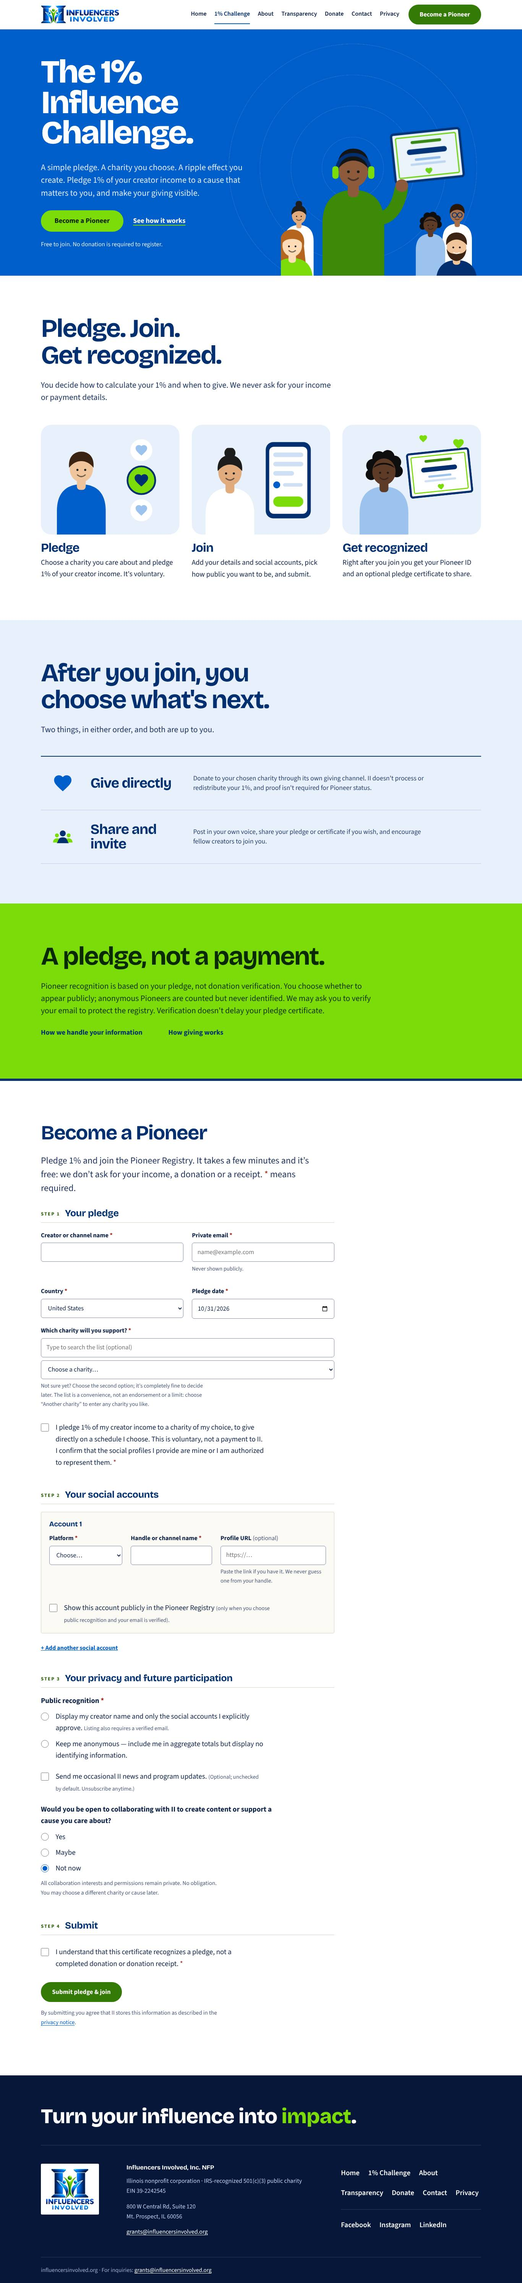
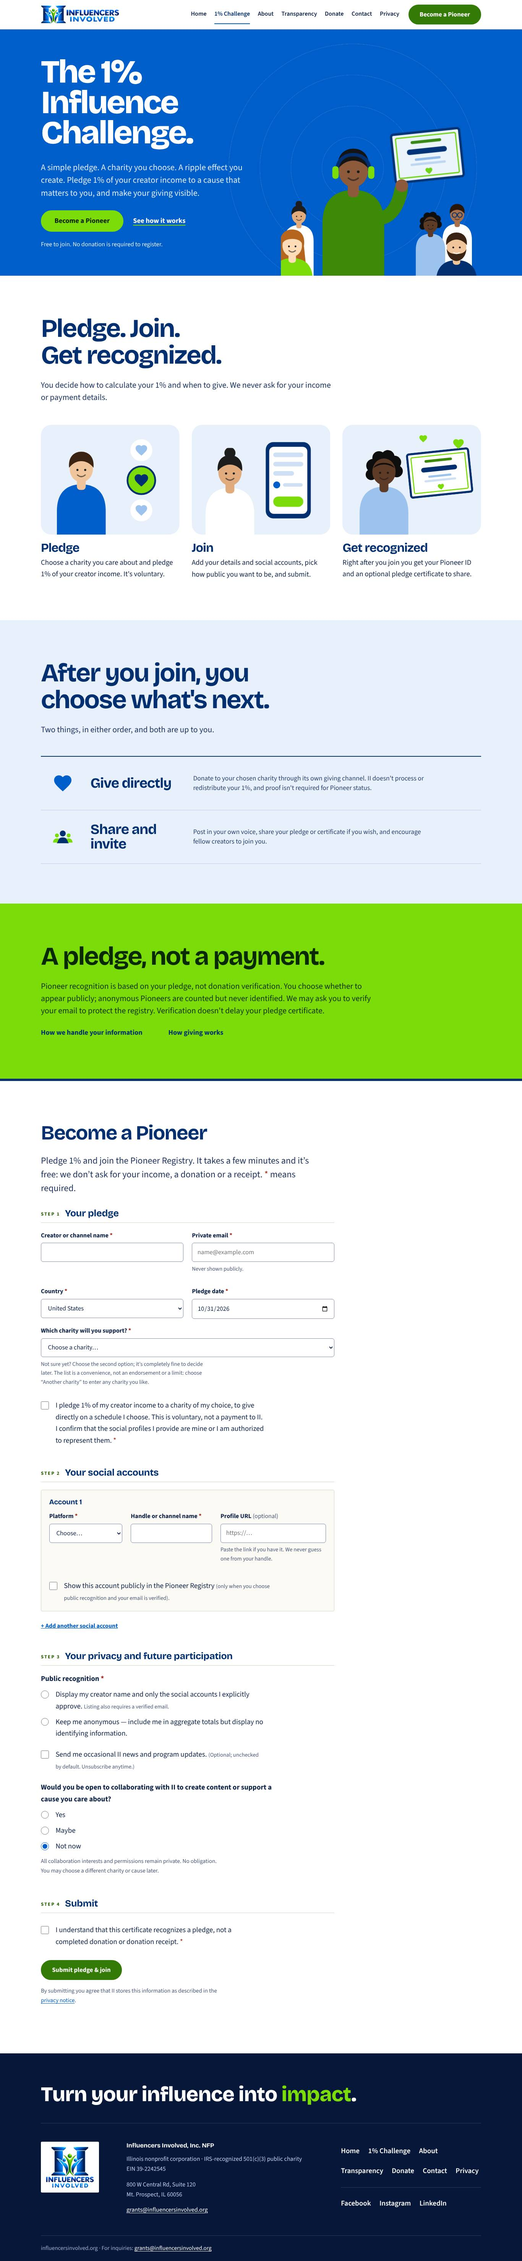
Remove charity search box; correct U.S. & international donation wording
- registration form: remove the separate charity search field, its filtering
  script, styles, status element and the unused catalogue copy in the browser
  config; native categorized dropdown, 101 charities and the two special
  options are unchanged; backend validation and catalogue unchanged
- Donate: replace the "international method not established" notice with
  "U.S. & International Donations" (card via Zeffy, no Zeffy-deducted fees,
  optional Zeffy contribution, USD processing and bank-fee note); move the
  copy into src/config.json; add one clarifying sentence on Transparency
- Zeffy remains the only provider; PayPal excluded; Donorbox/Stripe recorded as
  a future enhancement only, with static checks and e2e failing if any
  Donorbox/Stripe/PayPal wording or link appears
- update CLAUDE.md, docs and tests for the corrected capabilities

Claude-Session: https://claude.ai/code/session_012usvGL1vp3ymgE2qmT3tXw

diff --git a/site/challenge/index.html b/site/challenge/index.html
@@ -264,10 +264,7 @@
         </div>
         <div class="field charity-field">
           <label for="charity_select">Which charity will you support? <span class="req">*</span></label>
-          <label class="sr-only" for="charity_search">Search the charity list</label>
-          <input type="search" id="charity_search" class="charity-search" placeholder="Type to search the list (optional)" autocomplete="off" aria-controls="charity_select" aria-describedby="charity-count">
           <select id="charity_select" name="charity_select" required aria-describedby="charity-h charity_select-e"><option value="">Choose a charity…</option><option value="__undecided__">I haven't chosen a charity yet — I'll decide later.</option><option value="__other__">Another charity — let me enter its name.</option><optgroup label="Global Health &amp; Evidence-Based Giving"><option value="Against Malaria Foundation">Against Malaria Foundation</option><option value="Malaria Consortium">Malaria Consortium</option><option value="Helen Keller International">Helen Keller International</option><option value="New Incentives">New Incentives</option><option value="GiveDirectly">GiveDirectly</option><option value="One Acre Fund">One Acre Fund</option><option value="Partners In Health">Partners In Health</option><option value="Fistula Foundation">Fistula Foundation</option></optgroup><optgroup label="Disaster Relief &amp; International Aid"><option value="American Red Cross">American Red Cross</option><option value="Direct Relief">Direct Relief</option><option value="Doctors Without Borders USA">Doctors Without Borders USA</option><option value="World Central Kitchen">World Central Kitchen</option><option value="International Rescue Committee">International Rescue Committee</option><option value="CARE">CARE</option><option value="Catholic Relief Services">Catholic Relief Services</option><option value="Save the Children">Save the Children</option><option value="Project HOPE">Project HOPE</option><option value="Team Rubicon">Team Rubicon</option><option value="All Hands and Hearts">All Hands and Hearts</option><option value="International Medical Corps">International Medical Corps</option><option value="HIAS">HIAS</option><option value="UNICEF USA (United States Fund for UNICEF)">UNICEF USA (United States Fund for UNICEF)</option><option value="World Vision">World Vision</option><option value="charity: water">charity: water</option><option value="Water.org">Water.org</option></optgroup><optgroup label="Hunger &amp; Food Security"><option value="Feeding America">Feeding America</option><option value="Action Against Hunger-USA">Action Against Hunger-USA</option><option value="Feed My Starving Children">Feed My Starving Children</option><option value="City Harvest">City Harvest</option><option value="Food Bank For New York City">Food Bank For New York City</option><option value="The Hunger Project">The Hunger Project</option><option value="MAZON: A Jewish Response to Hunger">MAZON: A Jewish Response to Hunger</option><option value="Farm Aid">Farm Aid</option></optgroup><optgroup label="Children, Youth &amp; Education"><option value="ChildFund International">ChildFund International</option><option value="Children International">Children International</option><option value="Children's Health Fund">Children's Health Fund</option><option value="Big Brothers Big Sisters of America">Big Brothers Big Sisters of America</option><option value="Boys &amp; Girls Clubs of America">Boys &amp; Girls Clubs of America</option><option value="Girl Scouts of the USA">Girl Scouts of the USA</option><option value="Girls Incorporated">Girls Incorporated</option><option value="Junior Achievement USA">Junior Achievement USA</option><option value="National 4-H Council">National 4-H Council</option><option value="Scholarship America">Scholarship America</option><option value="Sesame Workshop">Sesame Workshop</option><option value="ProLiteracy Worldwide">ProLiteracy Worldwide</option><option value="Ronald McDonald House Charities">Ronald McDonald House Charities</option><option value="National Center for Missing &amp; Exploited Children">National Center for Missing &amp; Exploited Children</option></optgroup><optgroup label="Cancer, Medical Research &amp; Health"><option value="Breast Cancer Research Foundation">Breast Cancer Research Foundation</option><option value="Cancer Research Institute">Cancer Research Institute</option><option value="CancerCare">CancerCare</option><option value="Dana-Farber Cancer Institute">Dana-Farber Cancer Institute</option><option value="National Breast Cancer Foundation">National Breast Cancer Foundation</option><option value="American Kidney Fund">American Kidney Fund</option><option value="American Diabetes Association">American Diabetes Association</option><option value="American Lung Association">American Lung Association</option><option value="American Liver Foundation">American Liver Foundation</option><option value="Breakthrough T1D">Breakthrough T1D</option><option value="CDC Foundation">CDC Foundation</option><option value="National Kidney Foundation">National Kidney Foundation</option><option value="Michael J. Fox Foundation for Parkinson's Research">Michael J. Fox Foundation for Parkinson's Research</option><option value="Parkinson's Foundation">Parkinson's Foundation</option><option value="Salk Institute for Biological Studies">Salk Institute for Biological Studies</option></optgroup><optgroup label="Mental Health &amp; Community Wellbeing"><option value="Alzheimer's Association">Alzheimer's Association</option><option value="American Foundation for Suicide Prevention">American Foundation for Suicide Prevention</option><option value="Brain &amp; Behavior Research Foundation">Brain &amp; Behavior Research Foundation</option><option value="Mental Health America">Mental Health America</option><option value="NAMI">NAMI</option><option value="The Trevor Project">The Trevor Project</option><option value="The Arc of the United States">The Arc of the United States</option><option value="The Y (National Office)">The Y (National Office)</option></optgroup><optgroup label="Animals, Wildlife &amp; Environment"><option value="Best Friends Animal Society">Best Friends Animal Society</option><option value="PetSmart Charities">PetSmart Charities</option><option value="Wildlife Conservation Society">Wildlife Conservation Society</option><option value="Dian Fossey Gorilla Fund International">Dian Fossey Gorilla Fund International</option><option value="African Wildlife Foundation">African Wildlife Foundation</option><option value="American Bird Conservancy">American Bird Conservancy</option><option value="American Forests">American Forests</option><option value="National Audubon Society">National Audubon Society</option><option value="National Wildlife Federation">National Wildlife Federation</option><option value="Oceana">Oceana</option><option value="Rainforest Trust">Rainforest Trust</option><option value="Sierra Club Foundation">Sierra Club Foundation</option><option value="Earthjustice">Earthjustice</option><option value="World Wildlife Fund">World Wildlife Fund</option><option value="Conservation International Foundation">Conservation International Foundation</option></optgroup><optgroup label="Veterans &amp; First Responders"><option value="Fisher House Foundation">Fisher House Foundation</option><option value="Gary Sinise Foundation">Gary Sinise Foundation</option><option value="Homes For Our Troops">Homes For Our Troops</option><option value="Bob Woodruff Foundation">Bob Woodruff Foundation</option><option value="Semper Fi &amp; America's Fund">Semper Fi &amp; America's Fund</option><option value="Tunnel to Towers Foundation">Tunnel to Towers Foundation</option><option value="Veterans Community Project">Veterans Community Project</option><option value="National Military Family Association">National Military Family Association</option></optgroup><optgroup label="Human Rights &amp; Community Support"><option value="American Civil Liberties Union Foundation">American Civil Liberties Union Foundation</option><option value="Electronic Frontier Foundation">Electronic Frontier Foundation</option><option value="Center for Victims of Torture">Center for Victims of Torture</option><option value="Human Rights First">Human Rights First</option><option value="RAINN">RAINN</option><option value="Hispanic Scholarship Fund">Hispanic Scholarship Fund</option><option value="American Indian College Fund">American Indian College Fund</option><option value="Global Fund for Women">Global Fund for Women</option></optgroup></select>
-          <p class="sr-only" id="charity-count" role="status" aria-live="polite"></p>
           <p class="hint" id="charity-h">Not sure yet? Choose the second option; it’s completely fine to decide later. The list is a convenience, not an endorsement or a limit: choose “Another charity” to enter any charity you like.</p>
           <p class="err" id="charity_select-e"></p>
         </div>

diff --git a/site/assets/site-config.js b/site/assets/site-config.js
@@ -1,1 +1,1 @@
-window.II_CONFIG={"apiBase":"","email":"grants@influencersinvolved.org","platforms":["YouTube","Instagram","TikTok","Facebook","Twitch","LinkedIn","X","Other"],"charities":[{"c":"Global Health & Evidence-Based Giving","i":[["Against Malaria Foundation","AMF"],["Malaria Consortium"],["Helen Keller International","Helen Keller Intl"],["New Incentives"],["GiveDirectly","Give Directly"],["One Acre Fund"],["Partners In Health","PIH"],["Fistula Foundation"]]},{"c":"Disaster Relief & International Aid","i":[["American Red Cross","Red Cross"],["Direct Relief"],["Doctors Without Borders USA","Doctors Without Borders","Medecins Sans Frontieres","MSF","MSF USA"],["World Central Kitchen","WCK"],["International Rescue Committee","IRC"],["CARE","CARE USA"],["Catholic Relief Services","CRS"],["Save the Children","Save the Children US"],["Project HOPE","Project Hope"],["Team Rubicon"],["All Hands and Hearts","All Hands and Hearts Smart Response"],["International Medical Corps","IMC"],["HIAS"],["UNICEF USA (United States Fund for UNICEF)","UNICEF USA","UNICEF","United States Fund for UNICEF","US Fund for UNICEF"],["World Vision","World Vision US"],["charity: water","charity water"],["Water.org","Water org"]]},{"c":"Hunger & Food Security","i":[["Feeding America"],["Action Against Hunger-USA","Action Against Hunger","Action Against Hunger USA"],["Feed My Starving Children","FMSC"],["City Harvest"],["Food Bank For New York City","Food Bank of New York City","Food Bank NYC"],["The Hunger Project","Hunger Project"],["MAZON: A Jewish Response to Hunger","MAZON"],["Farm Aid"]]},{"c":"Children, Youth & Education","i":[["ChildFund International","ChildFund"],["Children International"],["Children's Health Fund","Childrens Health Fund"],["Big Brothers Big Sisters of America","Big Brothers Big Sisters","BBBS"],["Boys & Girls Clubs of America","Boys and Girls Clubs of America","Boys and Girls Club","Boys & Girls Club","BGCA"],["Girl Scouts of the USA","Girl Scouts"],["Girls Incorporated","Girls Inc"],["Junior Achievement USA","Junior Achievement"],["National 4-H Council","4-H","4H"],["Scholarship America"],["Sesame Workshop"],["ProLiteracy Worldwide","ProLiteracy"],["Ronald McDonald House Charities","Ronald McDonald House"],["National Center for Missing & Exploited Children","NCMEC"]]},{"c":"Cancer, Medical Research & Health","i":[["Breast Cancer Research Foundation","BCRF"],["Cancer Research Institute","CRI"],["CancerCare","Cancer Care"],["Dana-Farber Cancer Institute","Dana Farber","Dana Farber Cancer Institute"],["National Breast Cancer Foundation","NBCF"],["American Kidney Fund","AKF"],["American Diabetes Association"],["American Lung Association"],["American Liver Foundation"],["Breakthrough T1D","JDRF"],["CDC Foundation"],["National Kidney Foundation","NKF"],["Michael J. Fox Foundation for Parkinson's Research","Michael J Fox Foundation","MJFF","Michael J. Fox Foundation"],["Parkinson's Foundation","Parkinsons Foundation"],["Salk Institute for Biological Studies","Salk Institute"]]},{"c":"Mental Health & Community Wellbeing","i":[["Alzheimer's Association","Alzheimers Association"],["American Foundation for Suicide Prevention","AFSP"],["Brain & Behavior Research Foundation","Brain and Behavior Research Foundation"],["Mental Health America","MHA"],["NAMI","National Alliance on Mental Illness"],["The Trevor Project","Trevor Project"],["The Arc of the United States","The Arc","Arc of the US"],["The Y (National Office)","YMCA","The Y"]]},{"c":"Animals, Wildlife & Environment","i":[["Best Friends Animal Society","Best Friends"],["PetSmart Charities"],["Wildlife Conservation Society","WCS"],["Dian Fossey Gorilla Fund International","Dian Fossey Gorilla Fund","Gorilla Fund"],["African Wildlife Foundation","AWF"],["American Bird Conservancy"],["American Forests"],["National Audubon Society","Audubon"],["National Wildlife Federation","NWF"],["Oceana"],["Rainforest Trust"],["Sierra Club Foundation","Sierra Club"],["Earthjustice"],["World Wildlife Fund","WWF","World Wildlife Fund US"],["Conservation International Foundation","Conservation International"]]},{"c":"Veterans & First Responders","i":[["Fisher House Foundation","Fisher House"],["Gary Sinise Foundation"],["Homes For Our Troops","Homes for Our Troops"],["Bob Woodruff Foundation"],["Semper Fi & America's Fund","Semper Fi and Americas Fund","Semper Fi Fund"],["Tunnel to Towers Foundation","Tunnel to Towers","Tunnel 2 Towers"],["Veterans Community Project"],["National Military Family Association","NMFA"]]},{"c":"Human Rights & Community Support","i":[["American Civil Liberties Union Foundation","ACLU","ACLU Foundation","American Civil Liberties Union"],["Electronic Frontier Foundation","EFF"],["Center for Victims of Torture","CVT"],["Human Rights First"],["RAINN"],["Hispanic Scholarship Fund","HSF"],["American Indian College Fund"],["Global Fund for Women"]]}]};
+window.II_CONFIG={"apiBase":"","email":"grants@influencersinvolved.org","platforms":["YouTube","Instagram","TikTok","Facebook","Twitch","LinkedIn","X","Other"]};

diff --git a/site/donate/index.html b/site/donate/index.html
@@ -4,7 +4,7 @@
 <meta charset="utf-8">
 <meta name="viewport" content="width=device-width, initial-scale=1">
 <title>Donate | Support Influencers Involved</title>
-<meta name="description" content="Donations on this page support Influencers Involved, Inc. NFP and its outreach, technology and program work, not the separate 1% pledges creators give directly to charities.">
+<meta name="description" content="Give by card through Zeffy from the U.S. or abroad. Donations on this page support Influencers Involved, Inc. NFP and its outreach, technology and program work, not the separate 1% pledges creators give directly to charities.">
 <meta name="robots" content="index,follow">
 <link rel="canonical" href="https://influencersinvolved.org/donate/">
 <meta name="theme-color" content="#012f70">
@@ -13,7 +13,7 @@
 <meta property="og:type" content="website">
 <meta property="og:site_name" content="Influencers Involved, Inc. NFP">
 <meta property="og:title" content="Donate | Support Influencers Involved">
-<meta property="og:description" content="Donations on this page support Influencers Involved, Inc. NFP and its outreach, technology and program work, not the separate 1% pledges creators give directly to charities.">
+<meta property="og:description" content="Give by card through Zeffy from the U.S. or abroad. Donations on this page support Influencers Involved, Inc. NFP and its outreach, technology and program work, not the separate 1% pledges creators give directly to charities.">
 <meta property="og:url" content="https://influencersinvolved.org/donate/">
 <meta property="og:image" content="https://influencersinvolved.org/assets/og-image.png">
 <meta name="twitter:card" content="summary_large_image">
@@ -174,9 +174,10 @@
 <section class="m-sec m-sky" aria-labelledby="intl-h">
   <div class="wrap m-split lead-l">
     <div>
-      <h2 id="intl-h">International donations.</h2>
-      <p class="notice" role="note">We have not yet established a separate international donation method. Please check back for updates.</p>
-      <p class="m-body">Our Zeffy donation link is available wherever that checkout can be used.</p>
+      <h2 id="intl-h">U.S. &amp; International Donations</h2>
+      <p class="m-lead">Support Influencers Involved from the United States or abroad. Donate securely by card through Zeffy.</p>
+      <p class="m-body">100% of your intended donation goes to Influencers Involved, with no platform or processing fees deducted by Zeffy. A separate optional contribution to Zeffy may be offered at checkout.</p>
+      <p class="notice" role="note">Donations are processed in U.S. dollars (USD). Your bank may apply currency conversion or foreign transaction fees. Card availability may vary by country.</p>
     </div>
   </div>
 </section>

diff --git a/site/assets/site.js b/site/assets/site.js
@@ -98,25 +98,8 @@
   accountsEl.appendChild(accountBlock()); renumber();
   addBtn.addEventListener('click', function () { var b = accountBlock(); accountsEl.appendChild(b); renumber(); $('select', b).focus(); syncPrivacy(); });
 
-  // Charity selector: native <select> with categories. The search box rebuilds the grouped list from the same catalogue.
-  var charitySel = $('#charity_select'), charitySearch = $('#charity_search'), charityCount = $('#charity-count');
-  var SPECIALS = $$('option', charitySel).slice(0, 3).map(function (o) { return o.cloneNode(true); });
-  function fold(t) { return String(t).normalize('NFKD').replace(/[\u0300-\u036f]/g, '').toLowerCase().replace(/&/g, ' and ').replace(/['’`]/g, '').replace(/[^a-z0-9]+/g, ' ').trim(); }
-  function renderCharities(q) {
-    var key = fold(q), keep = charitySel.value, shown = 0, frag = document.createDocumentFragment();
-    SPECIALS.forEach(function (o) { frag.appendChild(o.cloneNode(true)); });
-    (CFG.charities || []).forEach(function (cat) {
-      var items = cat.i.filter(function (names) { return !key || names.some(function (n) { return fold(n).indexOf(key) !== -1; }); });
-      if (!items.length) return;
-      var g = document.createElement('optgroup'); g.label = cat.c;
-      items.forEach(function (names) { var o = document.createElement('option'); o.value = names[0]; o.textContent = names[0]; g.appendChild(o); shown++; });
-      frag.appendChild(g);
-    });
-    charitySel.textContent = ''; charitySel.appendChild(frag);
-    if ($$('option', charitySel).some(function (o) { return o.value === keep; })) charitySel.value = keep;
-    charityCount.textContent = key ? (shown + (shown === 1 ? ' charity matches' : ' charities match') + ' your search. “Another charity” is always available.') : '';
-  }
-  if (charitySearch && CFG.charities) charitySearch.addEventListener('input', function () { renderCharities(this.value); });
+  // Charity selector: a native <select> with categories; the two special choices sit at the top.
+  var charitySel = $('#charity_select');
   function syncCharity() {
     var v = charitySel.value;
     $('#charity-other-field').hidden = v !== '__other__';

diff --git a/src/static/site.js b/src/static/site.js
@@ -98,25 +98,8 @@
   accountsEl.appendChild(accountBlock()); renumber();
   addBtn.addEventListener('click', function () { var b = accountBlock(); accountsEl.appendChild(b); renumber(); $('select', b).focus(); syncPrivacy(); });
 
-  // Charity selector: native <select> with categories. The search box rebuilds the grouped list from the same catalogue.
-  var charitySel = $('#charity_select'), charitySearch = $('#charity_search'), charityCount = $('#charity-count');
-  var SPECIALS = $$('option', charitySel).slice(0, 3).map(function (o) { return o.cloneNode(true); });
-  function fold(t) { return String(t).normalize('NFKD').replace(/[\u0300-\u036f]/g, '').toLowerCase().replace(/&/g, ' and ').replace(/['’`]/g, '').replace(/[^a-z0-9]+/g, ' ').trim(); }
-  function renderCharities(q) {
-    var key = fold(q), keep = charitySel.value, shown = 0, frag = document.createDocumentFragment();
-    SPECIALS.forEach(function (o) { frag.appendChild(o.cloneNode(true)); });
-    (CFG.charities || []).forEach(function (cat) {
-      var items = cat.i.filter(function (names) { return !key || names.some(function (n) { return fold(n).indexOf(key) !== -1; }); });
-      if (!items.length) return;
-      var g = document.createElement('optgroup'); g.label = cat.c;
-      items.forEach(function (names) { var o = document.createElement('option'); o.value = names[0]; o.textContent = names[0]; g.appendChild(o); shown++; });
-      frag.appendChild(g);
-    });
-    charitySel.textContent = ''; charitySel.appendChild(frag);
-    if ($$('option', charitySel).some(function (o) { return o.value === keep; })) charitySel.value = keep;
-    charityCount.textContent = key ? (shown + (shown === 1 ? ' charity matches' : ' charities match') + ' your search. “Another charity” is always available.') : '';
-  }
-  if (charitySearch && CFG.charities) charitySearch.addEventListener('input', function () { renderCharities(this.value); });
+  // Charity selector: a native <select> with categories; the two special choices sit at the top.
+  var charitySel = $('#charity_select');
   function syncCharity() {
     var v = charitySel.value;
     $('#charity-other-field').hidden = v !== '__other__';

diff --git a/src/pages/donate.html b/src/pages/donate.html
@@ -1,5 +1,5 @@
 title: Donate | Support Influencers Involved
-description: Donations on this page support Influencers Involved, Inc. NFP and its outreach, technology and program work, not the separate 1% pledges creators give directly to charities.
+description: Give by card through Zeffy from the U.S. or abroad. Donations on this page support Influencers Involved, Inc. NFP and its outreach, technology and program work, not the separate 1% pledges creators give directly to charities.
 path: /donate/
 class: page-donate
 ---
@@ -61,9 +61,10 @@ class: page-donate
 <section class="m-sec m-sky" aria-labelledby="intl-h">
   <div class="wrap m-split lead-l">
     <div>
-      <h2 id="intl-h">International donations.</h2>
-      <p class="notice" role="note">{{intlNotice}}</p>
-      <p class="m-body">Our Zeffy donation link is available wherever that checkout can be used.</p>
+      <h2 id="intl-h">{{intlHeading}}</h2>
+      <p class="m-lead">{{intlDescription}}</p>
+      <p class="m-body">{{feeExplanation}}</p>
+      <p class="notice" role="note">{{intlNote}}</p>
     </div>
   </div>
 </section>

diff --git a/src/pages/challenge.html b/src/pages/challenge.html
@@ -151,10 +151,7 @@ class: page-challenge
         </div>
         <div class="field charity-field">
           <label for="charity_select">Which charity will you support? <span class="req">*</span></label>
-          <label class="sr-only" for="charity_search">Search the charity list</label>
-          <input type="search" id="charity_search" class="charity-search" placeholder="Type to search the list (optional)" autocomplete="off" aria-controls="charity_select" aria-describedby="charity-count">
           <select id="charity_select" name="charity_select" required aria-describedby="charity-h charity_select-e">{{charityOptions}}</select>
-          <p class="sr-only" id="charity-count" role="status" aria-live="polite"></p>
           <p class="hint" id="charity-h">Not sure yet? Choose the second option; it’s completely fine to decide later. The list is a convenience, not an endorsement or a limit: choose “Another charity” to enter any charity you like.</p>
           <p class="err" id="charity_select-e"></p>
         </div>

diff --git a/site/assets/site.css b/site/assets/site.css
@@ -170,7 +170,7 @@ legend small{font:700 .8rem var(--sans);letter-spacing:.16em;color:var(--green-d
 .field>label,.field>.lbl{font-weight:700;font-size:1.02rem}
 .req{color:var(--danger)}
 .hint{font-size:.92rem;color:var(--muted)}
-input[type=text],input[type=email],input[type=url],input[type=date],input[type=search],select{width:100%;min-height:3.1rem;padding:.65rem .85rem;border:1.5px solid #7b88a8;border-radius:6px;background:#fff;color:var(--ink);font:inherit;font-size:1.05rem}
+input[type=text],input[type=email],input[type=url],input[type=date],select{width:100%;min-height:3.1rem;padding:.65rem .85rem;border:1.5px solid #7b88a8;border-radius:6px;background:#fff;color:var(--ink);font:inherit;font-size:1.05rem}
 input:focus,select:focus{border-color:var(--blue);outline:3px solid rgba(0,94,202,.25);outline-offset:0}
 input[aria-invalid=true],select[aria-invalid=true]{border-color:var(--danger)}
 .err{color:var(--danger);font-size:.95rem;font-weight:600;min-height:0}

diff --git a/src/static/site.css b/src/static/site.css
@@ -170,7 +170,7 @@ legend small{font:700 .8rem var(--sans);letter-spacing:.16em;color:var(--green-d
 .field>label,.field>.lbl{font-weight:700;font-size:1.02rem}
 .req{color:var(--danger)}
 .hint{font-size:.92rem;color:var(--muted)}
-input[type=text],input[type=email],input[type=url],input[type=date],input[type=search],select{width:100%;min-height:3.1rem;padding:.65rem .85rem;border:1.5px solid #7b88a8;border-radius:6px;background:#fff;color:var(--ink);font:inherit;font-size:1.05rem}
+input[type=text],input[type=email],input[type=url],input[type=date],select{width:100%;min-height:3.1rem;padding:.65rem .85rem;border:1.5px solid #7b88a8;border-radius:6px;background:#fff;color:var(--ink);font:inherit;font-size:1.05rem}
 input:focus,select:focus{border-color:var(--blue);outline:3px solid rgba(0,94,202,.25);outline-offset:0}
 input[aria-invalid=true],select[aria-invalid=true]{border-color:var(--danger)}
 .err{color:var(--danger);font-size:.95rem;font-weight:600;min-height:0}

diff --git a/site/transparency/index.html b/site/transparency/index.html
@@ -170,7 +170,7 @@
   <div class="m-way b">
     <span class="tag">Donations to Influencers Involved</span>
     <h2>Support our nonprofit work.</h2>
-    <p>Gifts through the Donate page go to Influencers Involved, Inc. NFP and support its nonprofit work, outreach, technology, and program development.</p>
+    <p>Gifts through the Donate page go to Influencers Involved, Inc. NFP and support its nonprofit work, outreach, technology, and program development. You can give by card through Zeffy from the United States or abroad.</p>
     <svg viewBox="0 0 240 150" role="img" aria-label="Illustration: a supporter with a dotted line to the Influencers Involved emblem.">
       <rect width="240" height="150" rx="18" fill="#eaf3ff"/>
       <use href="#b-beard" class="pa" x="18" y="34" width="84" height="252"/>

diff --git a/src/pages/transparency.html b/src/pages/transparency.html
@@ -57,7 +57,7 @@ class: page-transparency
   <div class="m-way b">
     <span class="tag">Donations to Influencers Involved</span>
     <h2>Support our nonprofit work.</h2>
-    <p>Gifts through the Donate page go to {{legalName}} and support its nonprofit work, outreach, technology, and program development.</p>
+    <p>Gifts through the Donate page go to {{legalName}} and support its nonprofit work, outreach, technology, and program development. You can give by card through Zeffy from the United States or abroad.</p>
     <svg viewBox="0 0 240 150" role="img" aria-label="Illustration: a supporter with a dotted line to the Influencers Involved emblem.">
       <rect width="240" height="150" rx="18" fill="#eaf3ff"/>
       <use href="#b-beard" class="pa" x="18" y="34" width="84" height="252"/>

diff --git a/site/assets/movement.css b/site/assets/movement.css
@@ -166,7 +166,6 @@ body{background:#fff}
 
 /* ───── Form details ───── */
 .opt{font-weight:400;color:var(--muted)}
-.charity-search{margin-bottom:.1rem}
 .notice[hidden]{display:none}
 
 /* ───── "Our Pioneer Community" dashboard: exactly four figures in ONE row ───── */
